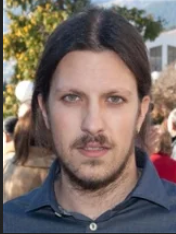
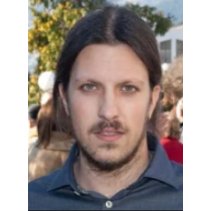
update

diff --git a/index.html b/index.html
@@ -249,7 +249,7 @@
         <div class="columns is-centered">
           <div class="column has-text-centered">
             <!-- TODO: Replace with your paper title -->
-            <h1 class="title is-1 publication-title">Academic Project Page</h1>
+            <h1 class="title is-1 publication-title">Towards High-Quality Image Segmentation: Improving Topology Accuracy by Penalizing Neighbor Pixels</h1>
 
       <div class="is-size-5 publication-authors">
           <div class="centered">
@@ -263,7 +263,7 @@
                     <p>Dim Papadopoulos</p></a>
                   </div>
                   <div class="col-author text-center">
-                    <a href=""  target="_blank"><img src="static/images/rasmus.jpg" alt="Rasmus Larsen" class="">
+                    <a href=""  target="_blank"><img src="static/images/rasmus.png" alt="Rasmus Larsen" class="">
                     <p>Rasmus Larsen</p></a>
                   </div>
                   <div class="col-author text-center">
